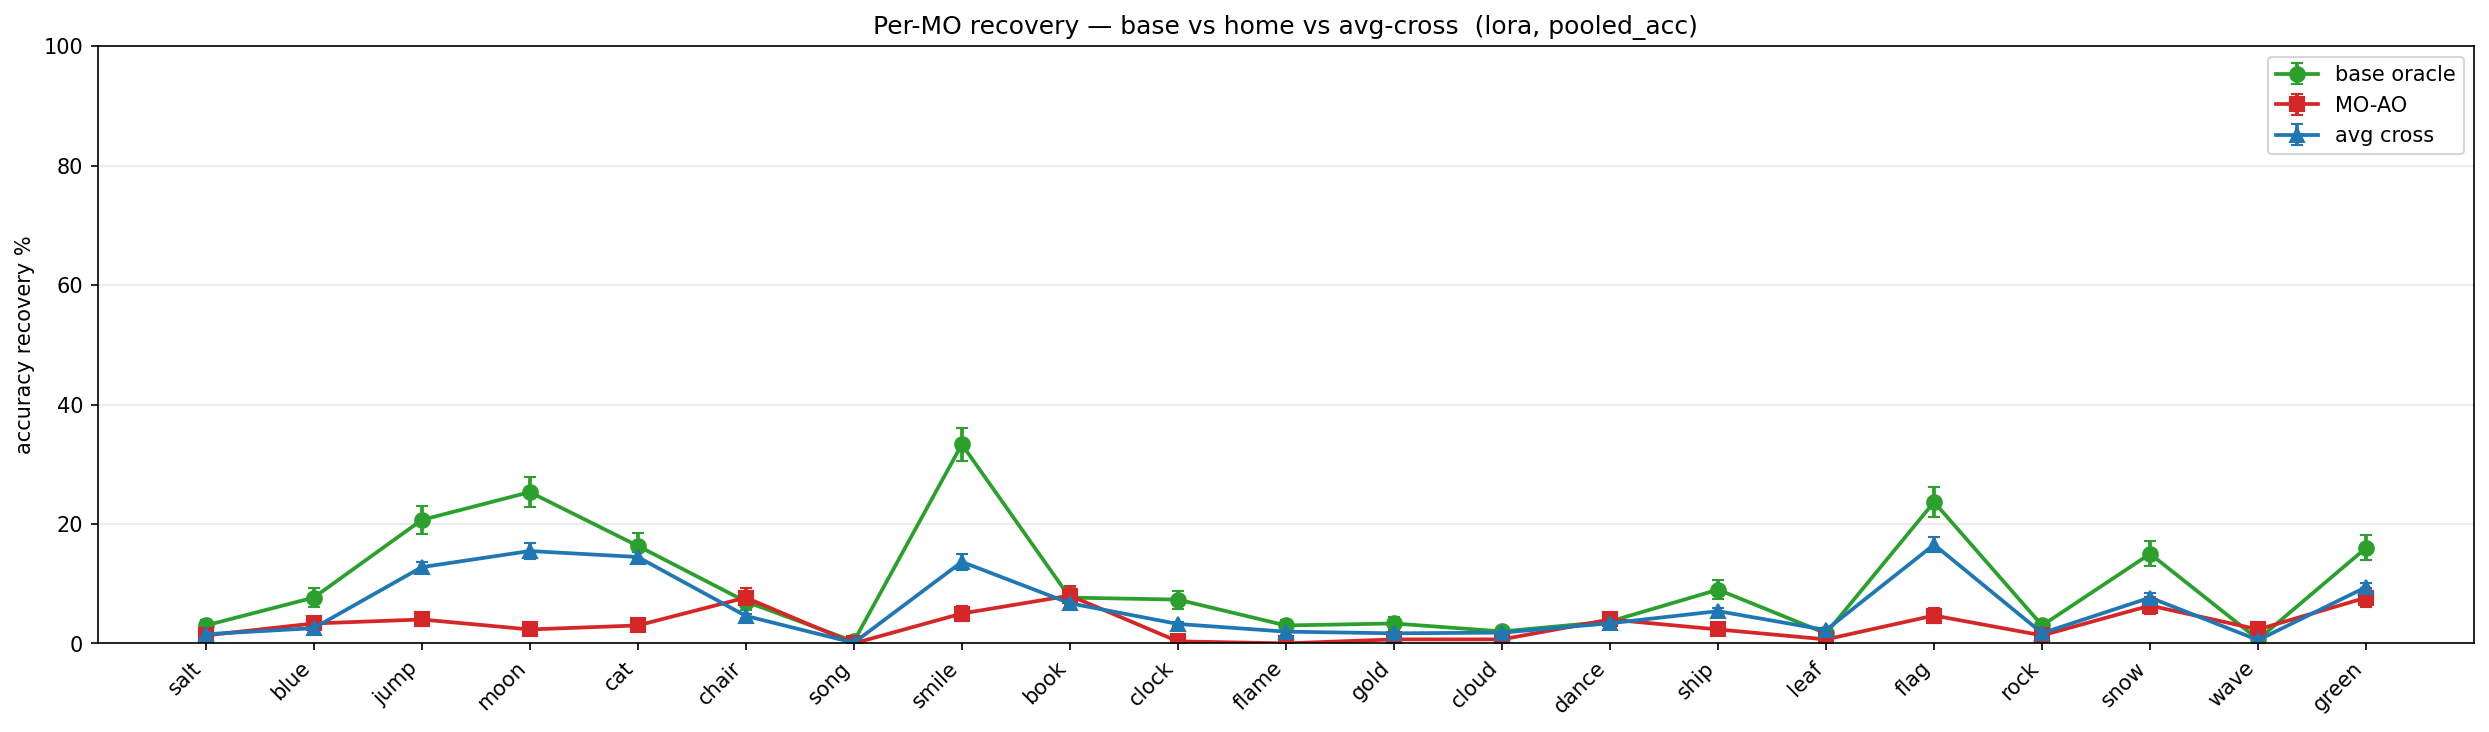
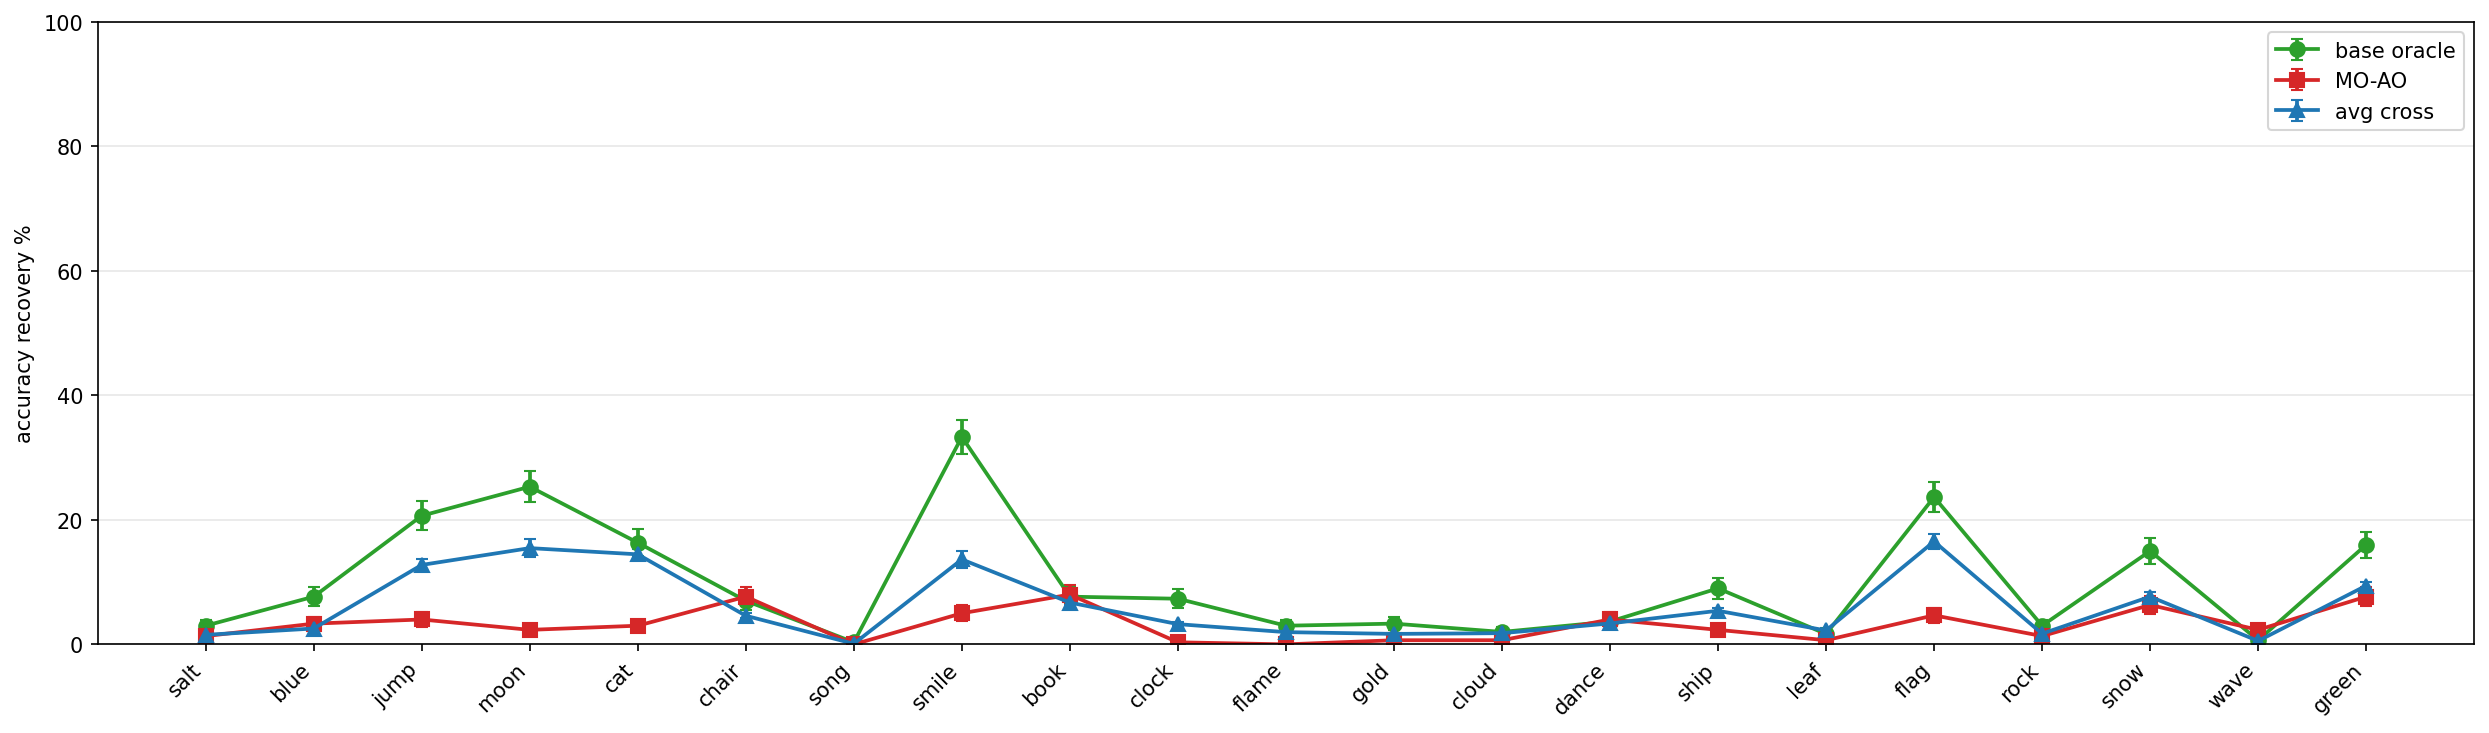
plot updates

diff --git a/experiments/crossover/pipeline/plot_side_by_side_single.py b/experiments/crossover/pipeline/plot_side_by_side_single.py
@@ -1,0 +1,143 @@
+"""Two composite figures, one per regime: (a) the per-MO base/MO-AO/avg-cross dot-line
+for that regime + (b) that regime's 3-bar average (the single group lifted out of
+ao_avg_direct_vs_standard_<metric>.png).
+
+  direct   -> base_home_cross_<act>_<metric>_direct_AND_avg.png  (left panel = the
+             top-level base_home_cross_<act>_<metric>_direct.png figure)
+  standard -> base_home_cross_<act>_<metric>_standard_AND_avg.png (left panel = the
+             standard_test/base_home_cross_<act>_<metric>_standard.png figure)
+
+Panel (a) reuses plot_base_home_cross.py logic; panel (b) reuses plot_ao_avg.py logic but
+shows only the one regime's 3 bars. The two (b) panels share a y-axis (0..max*1.2 over
+both regimes) so the composites are directly comparable.
+"""
+import json
+import os
+
+import numpy as np
+import matplotlib
+matplotlib.use("Agg")
+import matplotlib.pyplot as plt
+
+import crossover_config as cfg
+
+_HERE = os.path.dirname(os.path.abspath(__file__))
+RES = os.path.join(_HERE, "..", "crossover_results")
+ACT = "lora"
+M = "pooled_acc"
+words = cfg.taboo_words()
+
+RUNS = {
+    "direct":   os.path.join(RES, f"scores_{ACT}.json"),
+    "standard": os.path.join(RES, f"gemma-2-9b-it_open_ended_all_standard_test/scores_{ACT}.json"),
+}
+SCORES = {r: json.load(open(p)) for r, p in RUNS.items()}
+
+
+def binom_se(p_pct, n):
+    if not n or p_pct is None:
+        return np.nan
+    p = p_pct / 100.0
+    return 100.0 * (p * (1 - p) / n) ** 0.5
+
+
+def per_mo(scores):
+    """base_home_cross.py logic: per-MO base/home/avg-cross with error bars."""
+    mos, base, home, cross, base_e, home_e, cross_e = [], [], [], [], [], [], []
+    for m in words:
+        bc = scores.get(f"base oracle|{m}"); hc = scores.get(f"taboo_{m}|{m}")
+        b = bc.get(M) if bc else None
+        h = hc.get(M) if hc else None
+        xs = [c.get(M) for w in words if w != m
+              for c in [scores.get(f"taboo_{w}|{m}")] if c and c.get(M) is not None]
+        if b is None and h is None and not xs:
+            continue
+        mos.append(m)
+        base.append(b if b is not None else np.nan)
+        home.append(h if h is not None else np.nan)
+        cross.append(float(np.mean(xs)) if xs else np.nan)
+        base_e.append(binom_se(b, bc.get("n") if bc else None))
+        home_e.append(binom_se(h, hc.get("n") if hc else None))
+        cross_e.append(float(np.std(xs, ddof=1) / len(xs) ** 0.5) if len(xs) > 1 else np.nan)
+    return mos, base, home, cross, base_e, home_e, cross_e
+
+
+def agg3(scores):
+    """plot_ao_avg.py logic: (base, MO-AO, avg-cross) averaged over taboo MOs."""
+    base, home, cross = [], [], []
+    for m in words:
+        b = scores.get(f"base oracle|{m}", {}).get(M)
+        h = scores.get(f"taboo_{m}|{m}", {}).get(M)
+        xs = [scores[f"taboo_{w}|{m}"][M] for w in words if w != m
+              and f"taboo_{w}|{m}" in scores and scores[f"taboo_{w}|{m}"].get(M) is not None]
+        if b is not None: base.append(b)
+        if h is not None: home.append(h)
+        if xs: cross.append(float(np.mean(xs)))
+    return float(np.mean(base)), float(np.mean(home)), float(np.mean(cross))
+
+oracles = ["base", "MO-AO", "avg cross"]
+colors = ["#2ca02c", "#d62728", "#1f77b4"]
+agg = {r: agg3(SCORES[r]) for r in RUNS}
+# shared y-limit so the two (b) panels are on the same scale (matches ao_avg figure).
+ymax = max(max(agg["direct"]), max(agg["standard"])) * 1.2
+
+def draw(axA, axB, regime, labels=("(a)", "(b)")):
+    scores = SCORES[regime]
+    # ---- panel (a): per-MO dot-line for this regime ----
+    mos, base, home, cross, base_e, home_e, cross_e = per_mo(scores)
+    x = np.arange(len(mos))
+    axA.errorbar(x, base, yerr=base_e, marker="o", ms=7, lw=1.8, capsize=3, label="base oracle", color="#2ca02c")
+    axA.errorbar(x, home, yerr=home_e, marker="s", ms=7, lw=1.8, capsize=3, label="MO-AO", color="#d62728")
+    axA.errorbar(x, cross, yerr=cross_e, marker="^", ms=7, lw=1.8, capsize=3, label="avg cross", color="#1f77b4")
+    axA.set_xticks(x); axA.set_xticklabels(mos, rotation=45, ha="right")
+    axA.set_ylabel("accuracy recovery %"); axA.set_ylim(0, 100)
+    axA.legend(); axA.grid(axis="y", alpha=0.3)
+    axA.set_title(labels[0], fontweight="bold")
+
+    # ---- panel (b): this regime's 3 bars ----
+    heights = draw_bars(axB, regime, labels[1])
+    return heights
+
+
+def draw_bars(axB, regime, label):
+    heights = agg[regime]
+    w = 0.26
+    pos = np.array([-w, 0.0, w])
+    for p, h, oname, col in zip(pos, heights, oracles, colors):
+        axB.bar(p, h, w, label=oname, color=col)
+        axB.text(p, h + ymax * 0.012, f"{h:.1f}", ha="center", fontsize=9)
+    axB.set_xticks([0.0]); axB.set_xticklabels([regime])
+    axB.set_xlim(-2.5 * w, 2.5 * w)
+    axB.set_ylabel("accuracy recovery % (mean over taboo MOs)")
+    axB.set_ylim(0, ymax)
+    axB.legend(); axB.grid(axis="y", alpha=0.3)
+    axB.set_title(label, fontweight="bold")
+    return heights
+
+
+for regime in ("direct", "standard"):
+    fig, (axA, axB) = plt.subplots(1, 2, figsize=(16, 5), gridspec_kw={"width_ratios": [1.7, 1]})
+    heights = draw(axA, axB, regime)
+    fig.tight_layout()
+    out = os.path.join(RES, f"base_home_cross_{ACT}_{M}_{regime}_AND_avg.png")
+    fig.savefig(out, dpi=150, bbox_inches="tight")
+    print(f"Wrote {out}  | (b) {dict(zip(oracles, [round(v,1) for v in heights]))}")
+
+# ---- stacked: direct (top) over standard (bottom) ----
+fig, axes = plt.subplots(2, 2, figsize=(16, 10), gridspec_kw={"width_ratios": [1.7, 1]})
+_stacked_labels = [("(a)", "(b)"), ("(c)", "(d)")]
+for row, regime in enumerate(("direct", "standard")):
+    draw(axes[row, 0], axes[row, 1], regime, labels=_stacked_labels[row])
+fig.tight_layout()
+out = os.path.join(RES, f"base_home_cross_{ACT}_{M}_direct_AND_standard_stacked.png")
+fig.savefig(out, dpi=150, bbox_inches="tight")
+print(f"Wrote {out}")
+
+# ---- bars only: direct (a) | standard (b), side by side ----
+fig, (axL, axR) = plt.subplots(1, 2, figsize=(9, 4.5))
+draw_bars(axL, "direct", "(a)")
+draw_bars(axR, "standard", "(b)")
+fig.tight_layout()
+out = os.path.join(RES, f"ao_avg_direct_standard_bars_side_by_side_{M}.png")
+fig.savefig(out, dpi=150, bbox_inches="tight")
+print(f"Wrote {out}")
